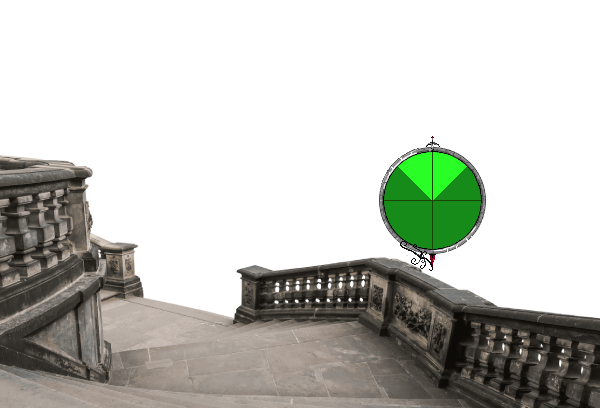
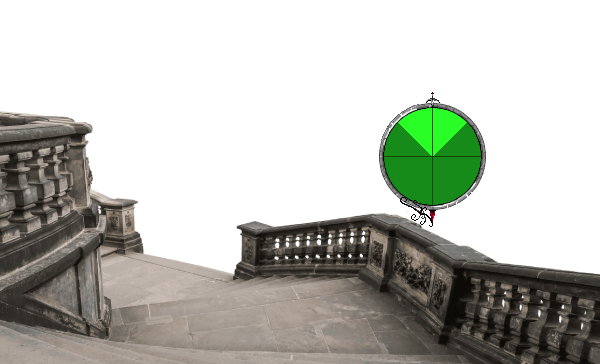
j size change

Changed region(s): [[0.0, 0.272, 1.0, 0.9973], [0.18, 0.9368, 0.27, 0.967], [0.54, 0.8764, 0.57, 0.9066]]

diff --git a/src/main/java/org/beast/addpersonalb/gui/guiPrincipal.java b/src/main/java/org/beast/addpersonalb/gui/guiPrincipal.java
@@ -14,7 +14,7 @@ import java.io.IOException;
 public class guiPrincipal extends JFrame {
     public guiPrincipal() {
         Principal panelGui = new Principal();
-        setBounds(600,280,600,408);
+        setBounds(600,280,600,364);
         setLocationRelativeTo(this);
         setResizable(false);
         add(panelGui);
